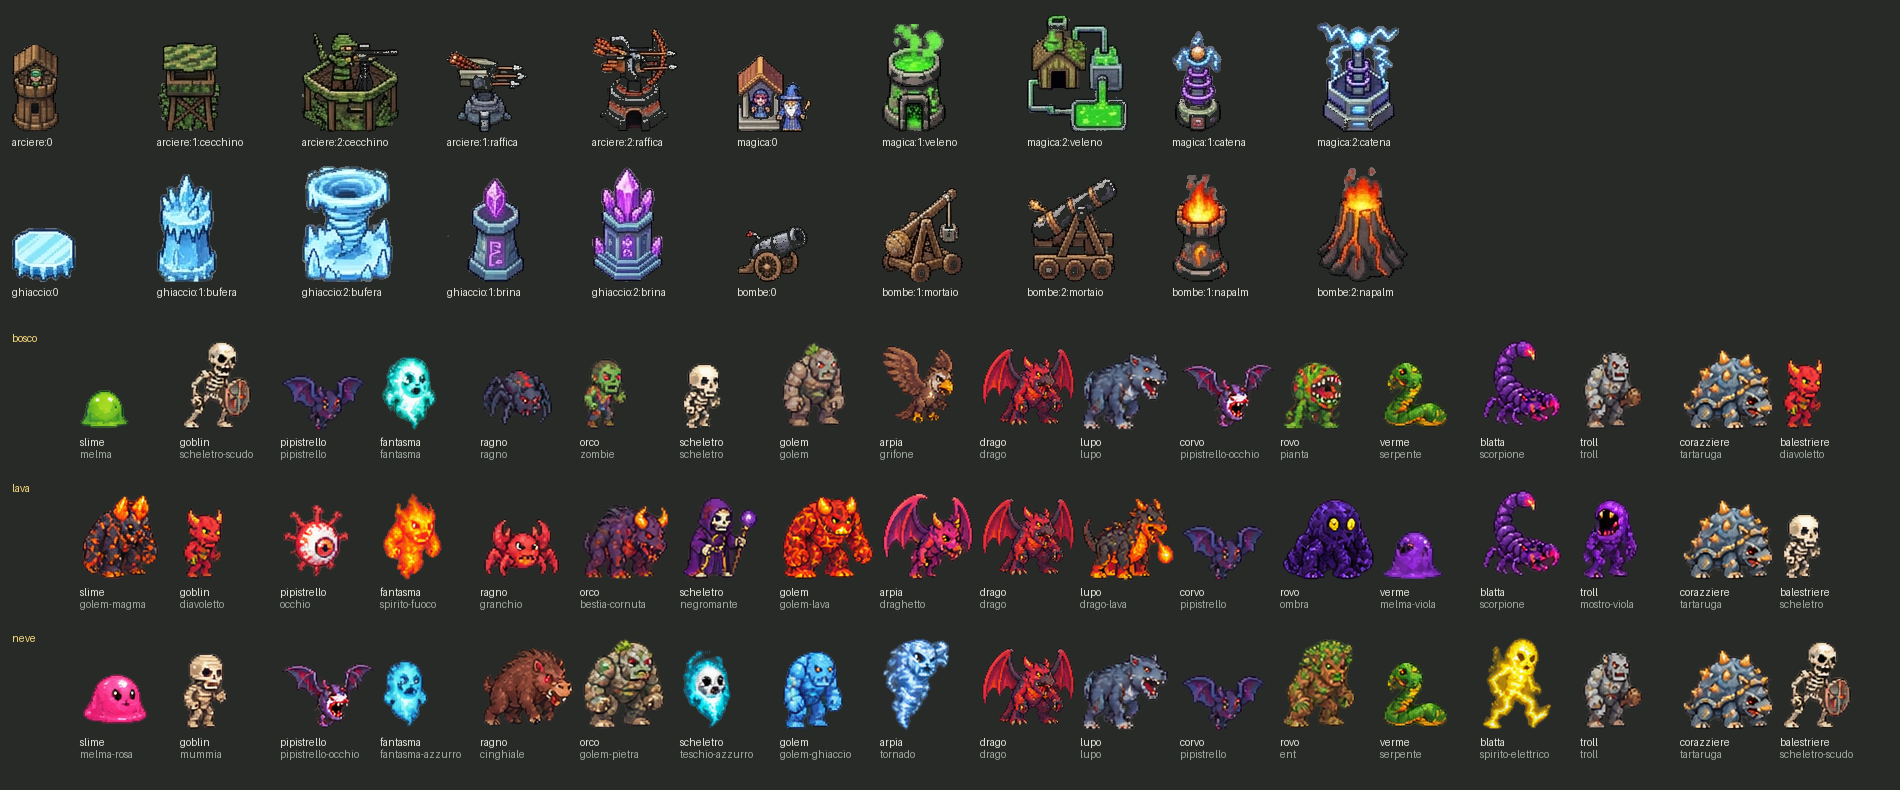
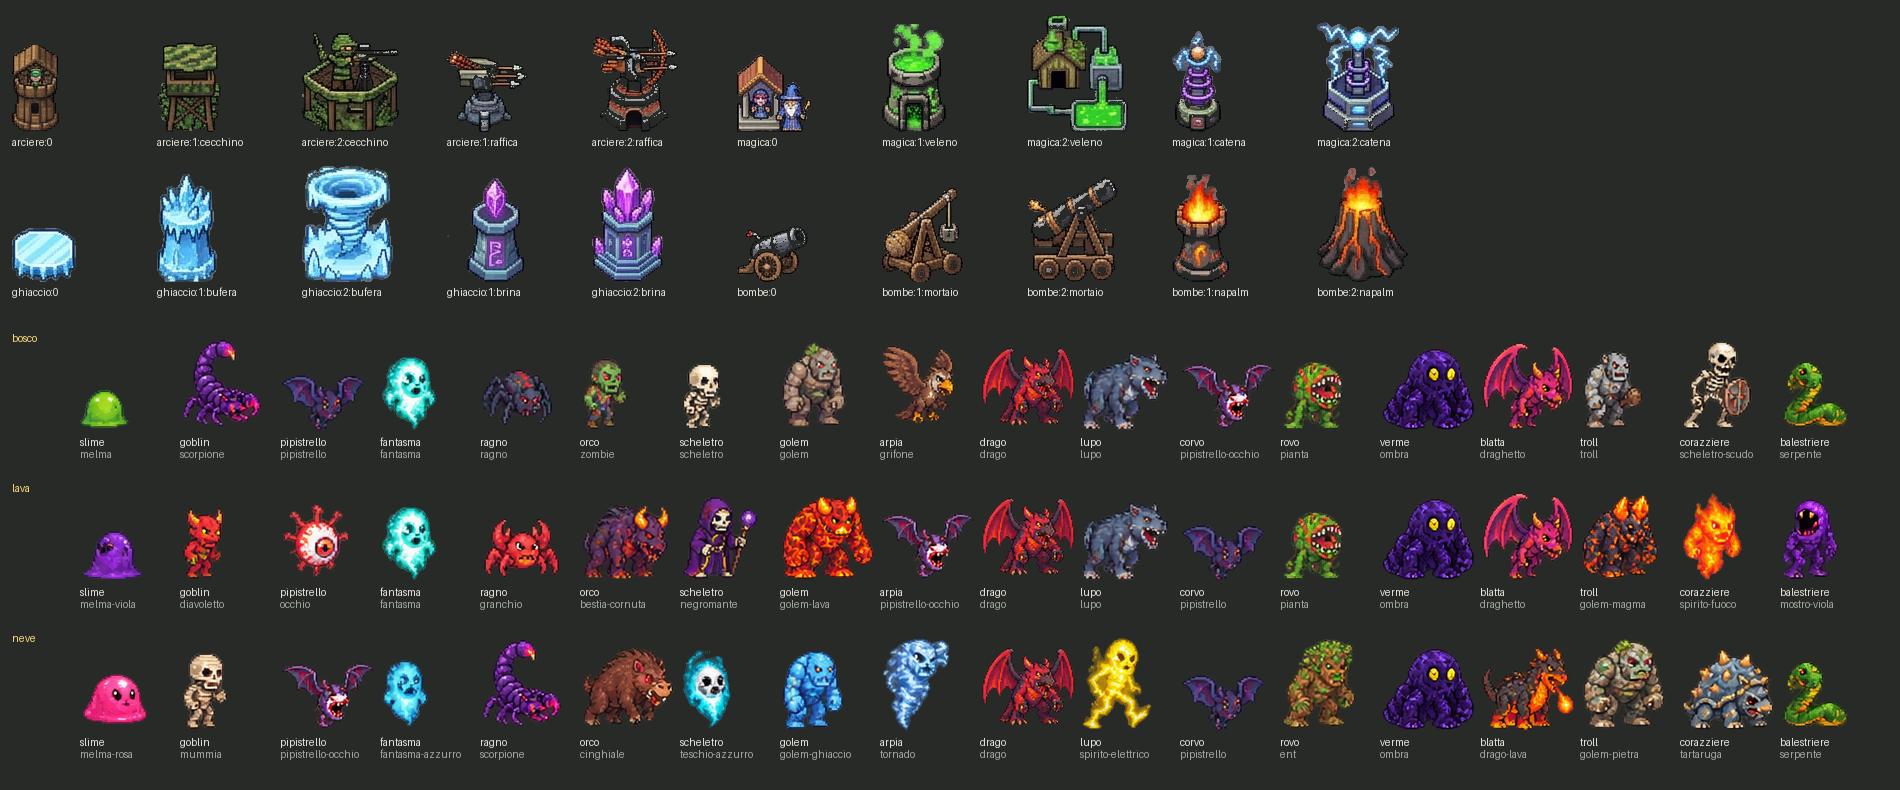
Castello a sprite: la figura dice a quale torre è immune il mostro
Il bestiario era stato scelto quando ogni mostro resisteva a una torre
sola, e con le immunità quattro figure dicevano il contrario: lo spirito
di fuoco faceva il fantasma, lo scheletro con lo scudo faceva il goblin
e il balestriere, le figure d'ossa stavano fra quelle che reggono lo
scoppio e il verme che si divide era un serpente.

Adesso c'è un vocabolario corto, scritto in testa al bestiario e uguale
nei tre vestiti — carapace e setole reggono le frecce, pietra e guscio
anche la magia, melme e ossa la magia, i draghi bombe e magia, l'ombra
e i grovigli le bombe — e una regola che `unita/castello-bestiario`
controlla: una figura che fa due mostri li fa con le stesse immunità.
Le quaranta figure sono le stesse, e l'atlante non cambia.

In `DA-GENERARE.md` la tabella è rifatta, e i fogli del cammino
rimettono insieme le creature del bosco in A, B e C (`CAMMINO` in
`vesti.py`: nessun foglio c'è ancora). Scatti rifatti.

diff --git a/src/giochi/castello/scena/bestiario.js b/src/giochi/castello/scena/bestiario.js
@@ -5,27 +5,68 @@
    Per il gioco un mostro è quanto resiste, se vola, a quali torri è
    immune e cosa fa quando cade (`data/mostri.js`). La figura non ci entra, e quindi può
    cambiare da un vestito all'altro senza toccare niente dell'equilibrio:
-   nel bosco lo slime è una melma verde, nella lava un sasso di magma
-   con le corna di fuoco, nella neve una melma rosa. È la varietà che i
+   nel bosco lo slime è una melma verde, nella lava una melma viola,
+   nella neve una melma rosa. È la varietà che i
    due fogli del sotterraneo permettono gratis — hanno cinquantaquattro
    creature — e le chiavi dei mostri restano quelle delle immunità e
    della taratura.
 
-   Tre regole per scegliere, in quest'ordine:
+   Quattro regole per scegliere, in quest'ordine:
      · **chi vola prende una figura che vola** (`vola: true`): l'ombra
        staccata da terra lo dice comunque, e una bestia a quattro zampe
        sospesa per aria è un guasto, non un mostro;
-     · **l'immunità si legge a occhio, dove si può**: corazzato, duro
-       o coperto (scudo, carapace, pelliccia) regge le frecce; pietra,
-       fuoco vivo o spirito regge la magia; molle, d'ossa o d'aria regge
-       le bombe. Dove non si può, almeno non dice il contrario.
-       Le scelte qui sotto sono di quando ogni mostro resisteva a una
-       torre sola: con le immunità qualcuna dice il contrario (lo
-       spirito di fuoco fa il fantasma, che solo la magia tocca; lo
-       scudo del balestriere della neve non ferma le frecce), e si
-       sistemano quando si ritocca il bestiario;
+     · **la figura dice a quale torre è immune**, ed è la cosa che conta:
+       al bambino non serve sapere chi è il mostro, serve capire che
+       torre mettergli davanti. Il vocabolario è corto, e vale in tutti
+       e tre i vestiti:
+         🪽 ali o volo            → niente bombe, tutti; e chi ha le ali
+                                    di un animale (pipistrelli, grifone,
+                                    tornado, l'occhio) passa sopra anche
+                                    il gelo
+         👻 trasparente           → niente frecce: i fantasmi
+         🐉 drago                 → niente bombe e niente magia: il drago,
+                                    il draghetto, il drago di lava
+         🪨 pietra, guscio        → niente frecce e niente magia: i golem,
+                                    il troll, la tartaruga, lo scheletro
+                                    con lo scudo
+         🔥 fuoco vivo            → niente magia, e niente frecce: il
+                                    golem di magma e quello di lava sono
+                                    sasso, lo spirito di fuoco è una
+                                    fiamma che la freccia attraversa. Lo
+                                    apre lo scoppio, che lo spegne
+         🦂 carapace, setole,     → niente frecce: scorpione, granchio,
+            bende, cuoio            ragno, cinghiale, mummia, zombie,
+                                    bestia cornuta; e il diavoletto, che
+                                    è troppo piccolo e svelto
+         🫧 gelatina              → niente magia: le melme, che non hanno
+                                    una mente su cui fare presa
+         💀 ossa                  → niente magia e niente gelo: testa
+                                    vuota e niente sangue (scheletro,
+                                    negromante, teschio)
+         🌑 molle, senza forma    → niente bombe: l'ombra e il mostro
+                                    viola, dove lo scoppio affonda; il
+                                    serpente, che sta rasoterra
+         🌿 un groviglio          → niente bombe e niente frecce: la
+                                    pianta carnivora, l'uomo albero
+         🐺 pelliccia, e svelto   → niente gelo e niente frecce: il lupo,
+                                    e lo spirito del fulmine
+       Chi si divide è una cosa molle che si può tagliare — la melma,
+       l'ombra — e non un serpente;
+     · **a figura uguale, immunità uguali**: una figura che fa due mostri
+       in due vestiti li fa con lo stesso profilo, così quello che il
+       bambino ha imparato nel bosco vale anche nella lava. Lo controlla
+       `unita/castello-bestiario`, insieme al volo.
      · **il bosco è la tabella di `strumenti/sprite/DA-GENERARE.md`**, che
        viene prima di questo file e dice anche in che foglio sta ognuna.
+
+   Era stato scelto quando ogni mostro resisteva a una torre sola, e con
+   le immunità quattro figure dicevano il contrario del loro mostro: lo
+   spirito di fuoco faceva il fantasma (che solo la magia tocca); lo
+   scheletro con lo scudo faceva il goblin nel bosco (lo scudo: niente
+   frecce) e il balestriere nella neve (immune solo alle bombe); le
+   figure d'ossa stavano fra quelle che reggono lo scoppio, mentre lo
+   scheletro regge magia e gelo; e il verme che si divide era un
+   serpente. Rifatta coi profili a due immunità al massimo.
 
    Il nome che il bambino legge — sul nastro di chi arriva e sulla scheda
    del mostro in campo — è quello della figura (`NOMI`): «arriva il
@@ -45,32 +86,37 @@ export const VOLANO = ['pipistrello', 'pipistrello-occhio', 'occhio', 'fantasma'
 
 export const BESTIARIO = {
   bosco: {
-    slime: 'melma', goblin: 'scheletro-scudo', pipistrello: 'pipistrello', fantasma: 'fantasma',
-    ragno: 'ragno', orco: 'zombie', scheletro: 'scheletro', golem: 'golem', arpia: 'grifone',
-    drago: 'drago', lupo: 'lupo', corvo: 'pipistrello-occhio', rovo: 'pianta', verme: 'serpente',
-    blatta: 'scorpione', troll: 'troll', corazziere: 'tartaruga', balestriere: 'diavoletto',
+    slime: 'melma',
+    goblin: 'scorpione',         // il carapace: la freccia rimbalza
+    pipistrello: 'pipistrello', fantasma: 'fantasma', ragno: 'ragno', orco: 'zombie',
+    scheletro: 'scheletro', golem: 'golem', arpia: 'grifone', drago: 'drago', lupo: 'lupo',
+    corvo: 'pipistrello-occhio', rovo: 'pianta',
+    verme: 'ombra',              // molle, lo scoppio ci affonda; e tagliata fa due ombre
+    blatta: 'draghetto',         // un drago: niente bombe, niente magia, come il drago
+    troll: 'troll',
+    corazziere: 'scheletro-scudo', // lo scudo per le frecce, la testa vuota per la magia
+    balestriere: 'serpente',     // rasoterra: lo scoppio gli passa sopra
   },
-  /* il fuoco: magma, lava, corna, fiamme. Il drago resta quello rosso,
-     che è già di fuoco */
+  /* il fuoco: magma, lava, corna, fiamme */
   lava: {
-    slime: 'golem-magma',        // un sasso di magma senza forma: l'incantesimo ci scivola
-    goblin: 'diavoletto',
+    slime: 'melma-viola',        // una melma, come nel bosco
+    goblin: 'diavoletto',        // piccolo e svelto: la freccia lo manca
     pipistrello: 'occhio',       // l'occhio volante, rosso come il posto
-    fantasma: 'spirito-fuoco',   // fuoco vivo: la magia gli passa attraverso
+    fantasma: 'fantasma',        // trasparente: le frecce gli passano attraverso
     ragno: 'granchio',           // carapace: le frecce rimbalzano
     orco: 'bestia-cornuta',      // cuoio e corna
     scheletro: 'negromante',     // ossa sotto la tonaca
     golem: 'golem-lava',
-    arpia: 'draghetto',
+    arpia: 'pipistrello-occhio',
     drago: 'drago',
-    lupo: 'drago-lava',          // scaglie
+    lupo: 'lupo',
     corvo: 'pipistrello',
-    rovo: 'ombra',               // molle: lo scoppio ci affonda
-    verme: 'melma-viola',
-    blatta: 'scorpione',
-    troll: 'mostro-viola',
-    corazziere: 'tartaruga',     // le spine arancio sulla corazza
-    balestriere: 'scheletro',
+    rovo: 'pianta',
+    verme: 'ombra',
+    blatta: 'draghetto',
+    troll: 'golem-magma',        // sasso e fuoco: né frecce né magia
+    corazziere: 'spirito-fuoco', // la freccia lo attraversa, la magia no, lo scoppio lo spegne
+    balestriere: 'mostro-viola', // molle e buio, come l'ombra
   },
   /* il freddo: ghiaccio, vento, cose pallide e cose col pelo */
   neve: {
@@ -78,20 +124,20 @@ export const BESTIARIO = {
     goblin: 'mummia',            // le bende: la freccia si pianta e basta
     pipistrello: 'pipistrello-occhio',
     fantasma: 'fantasma-azzurro',
-    ragno: 'cinghiale',          // pelliccia e setole
-    orco: 'golem-pietra',        // pietra: le frecce rimbalzano
+    ragno: 'scorpione',          // carapace, come il ragno
+    orco: 'cinghiale',           // pelliccia e setole: la freccia ci resta piantata
     scheletro: 'teschio-azzurro', // ossa e basta, e il fuoco freddo
     golem: 'golem-ghiaccio',
     arpia: 'tornado',            // vento: la bomba gli scoppia sotto
     drago: 'drago',
-    lupo: 'lupo',
+    lupo: 'spirito-elettrico',   // il fulmine: la freccia lo attraversa, il gelo non lo ferma
     corvo: 'pipistrello',
     rovo: 'ent',                 // un groviglio di rami che si richiude
-    verme: 'serpente',
-    blatta: 'spirito-elettrico', // non ha una mente da incantare
-    troll: 'troll',
+    verme: 'ombra',
+    blatta: 'drago-lava',        // un drago, senza ali
+    troll: 'golem-pietra',       // pietra
     corazziere: 'tartaruga',
-    balestriere: 'scheletro-scudo', // il pavese è lo scudo
+    balestriere: 'serpente',
   },
 }
 

diff --git a/strumenti/sprite/vesti.py b/strumenti/sprite/vesti.py
@@ -782,11 +782,11 @@ CREATURE_CASTELLO = Path(__file__).parent / 'creature-castello.json'
 CAMMINO = {
     'A': ['melma', 'scheletro-scudo', 'pipistrello', 'fantasma', 'ragno', 'lupo'],
     'B': ['golem', 'troll', 'scheletro', 'drago', 'grifone', 'pianta'],
-    'C': ['serpente', 'scorpione', 'tartaruga', 'diavoletto', 'zombie', 'pipistrello-occhio'],
+    'C': ['serpente', 'scorpione', 'ombra', 'draghetto', 'zombie', 'pipistrello-occhio'],
     'D': ['golem-magma', 'occhio', 'spirito-fuoco', 'granchio', 'bestia-cornuta', 'negromante'],
-    'E': ['golem-lava', 'draghetto', 'drago-lava', 'ombra', 'melma-viola', 'mostro-viola'],
+    'E': ['golem-lava', 'diavoletto', 'melma-viola', 'mostro-viola'],
     'F': ['melma-rosa', 'mummia', 'fantasma-azzurro', 'cinghiale', 'golem-pietra', 'teschio-azzurro'],
-    'G': ['golem-ghiaccio', 'tornado', 'ent', 'spirito-elettrico'],
+    'G': ['golem-ghiaccio', 'tornado', 'ent', 'spirito-elettrico', 'drago-lava', 'tartaruga'],
 }
 
 

diff --git a/strumenti/sprite/DA-GENERARE.md b/strumenti/sprite/DA-GENERARE.md
@@ -46,24 +46,24 @@ di 4×4 px».
 
 | castello | immune a | bosco | lava | neve |
 |---|---|---|---|---|
-| slime | magica · ✂ | la melma verde | il sasso di magma con le corna di fuoco | la melma rosa |
-| goblin | arciere | lo scheletro con spada e scudo | il diavoletto rosso | la mummia |
+| slime | magica · ✂ | la melma verde | la melma viola | la melma rosa |
+| goblin | arciere | lo scorpione viola | il diavoletto rosso | la mummia |
 | pipistrello | bombe, ghiaccio · vola | il pipistrello viola | l'occhio volante rosso | il pipistrello con un occhio solo |
-| fantasma | bombe, ghiaccio, arciere · vola | il fantasma verde acqua | lo spirito di fuoco | il fantasma azzurro |
-| ragno | arciere | il ragno nero | il granchio rosso | il cinghiale |
-| orco | arciere | lo zombie verde | la bestia cornuta | il golem di pietra col muschio |
+| fantasma | bombe, arciere · vola | il fantasma verde acqua | il fantasma verde acqua | il fantasma azzurro |
+| ragno | arciere | il ragno nero | il granchio rosso | lo scorpione viola |
+| orco | arciere | lo zombie verde | la bestia cornuta | il cinghiale |
 | scheletro | magica, ghiaccio · 💫 | lo scheletro | il negromante col cappuccio viola | il teschio con la fiamma azzurra |
 | golem | arciere, magica | il golem di pietra bruna | il golem di lava | il golem di ghiaccio |
-| arpia | bombe, ghiaccio · vola | il grifone | il draghetto rosa con le ali | il tornado azzurro |
-| drago | bombe, ghiaccio, magica · vola | il drago rosso con le ali | il drago rosso con le ali | il drago rosso con le ali |
-| lupo | arciere, ghiaccio | il lupo grigio | il drago di lava senza ali | il lupo grigio |
+| arpia | bombe, ghiaccio · vola | il grifone | il pipistrello con un occhio solo | il tornado azzurro |
+| drago | bombe, magica · vola | il drago rosso con le ali | il drago rosso con le ali | il drago rosso con le ali |
+| lupo | arciere, ghiaccio | il lupo grigio | il lupo grigio | lo spirito del fulmine giallo |
 | corvo | bombe, ghiaccio · vola | il pipistrello con un occhio solo | il pipistrello viola | il pipistrello viola |
-| rovo | arciere, bombe | la pianta carnivora | l'ombra viola con gli occhi gialli | l'uomo albero |
-| verme | bombe · ✂ | il serpente verde | la melma viola | il serpente verde |
-| blatta | bombe, magica | lo scorpione viola | lo scorpione viola | lo spirito del fulmine giallo |
-| troll | arciere, magica · 💫 | l'omone grigio con la clava | il mostro viola con la bocca grande | l'omone grigio con la clava |
-| corazziere | arciere, magica | la tartaruga corazzata | la tartaruga corazzata | la tartaruga corazzata |
-| balestriere | bombe | il diavoletto rosso | lo scheletro | lo scheletro con spada e scudo |
+| rovo | arciere, bombe | la pianta carnivora | la pianta carnivora | l'uomo albero |
+| verme | bombe · ✂ | l'ombra viola con gli occhi gialli | l'ombra viola con gli occhi gialli | l'ombra viola con gli occhi gialli |
+| blatta | bombe, magica | il draghetto rosa con le ali | il draghetto rosa con le ali | il drago di lava senza ali |
+| troll | arciere, magica · 💫 | l'omone grigio con la clava | il sasso di magma con le corna di fuoco | il golem di pietra col muschio |
+| corazziere | arciere, magica | lo scheletro con spada e scudo | lo spirito di fuoco | la tartaruga corazzata |
+| balestriere | bombe | il serpente verde | il mostro viola con la bocca grande | il serpente verde |
 
   Il nome che il castello dà al mostro resta quello del gioco (è la
   chiave delle sue immunità, `data/mostri.js`; ✂ si divide, 💫 si
@@ -71,13 +71,17 @@ di 4×4 px».
   nastro e sulla scheda è quello della figura («Grifone», «Golem di
   magma»: `NOMI` nel bestiario). Chi vola nel
   gioco prende una figura che vola, e `unita/castello-bestiario` lo
-  pretende. Il bestiario è stato scelto quando i mostri avevano una
-  resistenza sola, e dove si poteva si leggeva a occhio (il granchio col
-  carapace regge le frecce, il tornado le bombe); con le immunità
-  qualche figura dice il contrario del suo mostro — lo spirito di fuoco
-  «a cui la magia passa attraverso» fa il fantasma, che solo la magia
-  tocca; lo scheletro con lo scudo fa il balestriere della neve, che le
-  frecce le prende. Si sistema quando si ritocca il bestiario.
+  pretende. **La figura dice a quale torre è immune** — è quello che
+  serve al bambino per scegliere la torre, non chi è il mostro: il
+  carapace e le setole reggono le frecce, pietra e guscio anche la
+  magia, le melme e le ossa reggono la magia, i draghi le bombe e la
+  magia, l'ombra e i grovigli le bombe. Il vocabolario intero sta in
+  testa al bestiario, e una figura che fa due mostri in due vestiti li
+  fa con le stesse immunità (lo scorpione è il goblin del bosco e il
+  ragno della neve: niente frecce tutti e due). Rifatto il 27 settembre
+  coi profili a due immunità al massimo: prima lo spirito di fuoco
+  faceva il fantasma, lo scheletro con lo scudo il goblin e il
+  balestriere, e il verme che si divide era un serpente.
 
   **Il peso**: le quaranta creature col respiro sono 626 KB di WebP in
   `dati/figure.js` (864 KB col base64, 605 KB più di prima). È il
@@ -261,13 +265,15 @@ la creatura nel foglio allegato** (il generatore la deve trovare):
 |---|---|
 | A | la melma verde · lo scheletro con spada e scudo · il pipistrello viola · il fantasma verde acqua del secondo foglio · il ragno nero · il lupo grigio |
 | B | il golem di pietra bruna · l'omone grigio con la clava · lo scheletro senza armi · il drago rosso con le ali · il grifone · la pianta carnivora verde del primo foglio |
-| C | il serpente verde · lo scorpione viola · la tartaruga corazzata con le spine · il diavoletto rosso · lo zombie verde del primo foglio · il pipistrello viola con un occhio solo |
+| C | il serpente verde · lo scorpione viola · l'ombra viola con gli occhi gialli · il draghetto rosa con le ali · lo zombie verde del primo foglio · il pipistrello viola con un occhio solo |
 | D | il sasso di magma con le corna di fuoco · l'occhio volante rosso del primo foglio · lo spirito di fuoco · il granchio rosso · la bestia cornuta viola e arancio · il negromante col cappuccio viola |
-| E | il golem di lava rosso · il draghetto rosa con le ali · il drago di lava senza ali · l'ombra viola con gli occhi gialli · la melma viola · il mostro viola con la bocca grande |
+| E | il golem di lava rosso · il diavoletto rosso · la melma viola · il mostro viola con la bocca grande |
 | F | la melma rosa · la mummia · il fantasma azzurro del primo foglio · il cinghiale · il golem di pietra col muschio del secondo foglio · il teschio con la fiamma azzurra |
-| G | il golem di ghiaccio del primo foglio · il tornado azzurro · l'uomo albero · lo spirito del fulmine giallo |
+| G | il golem di ghiaccio del primo foglio · il tornado azzurro · l'uomo albero · lo spirito del fulmine giallo · il drago di lava senza ali · la tartaruga corazzata con le spine |
 
-A, B, C sono il bosco; D ed E la lava; F e G la neve. L'ordine delle
+A, B, C sono il bosco; D ed E la lava; F e G la neve — una creatura
+che sta in più vestiti è nel foglio del primo, prima il bosco e poi la
+lava, così coi soli A, B e C il bosco cammina tutto. L'ordine delle
 righe è quello di `CAMMINO` in `vesti.py`: **se il generatore ne
 scambia due, si scambiano lì**, non si rifà il foglio.
 
@@ -277,7 +283,7 @@ scambia due, si scambiano lì**, non si rifà il foglio.
 
 ```bash
 python3 strumenti/sprite/righe.py strumenti/sprite/sorgenti/sotterraneo/generati/mostri-cammino-A.png /tmp/a.png
-# deve dire «6 righe: 8 · 8 · 8 · 8 · 8 · 8 figure» (G: 4 righe)
+# deve dire «6 righe: 8 · 8 · 8 · 8 · 8 · 8 figure» (E: 4 righe)
 python3 strumenti/sprite/vesti.py --atlante
 python3 strumenti/sprite/vesti.py --creature /tmp/creature.png            # tutte, coi passi
 ```
